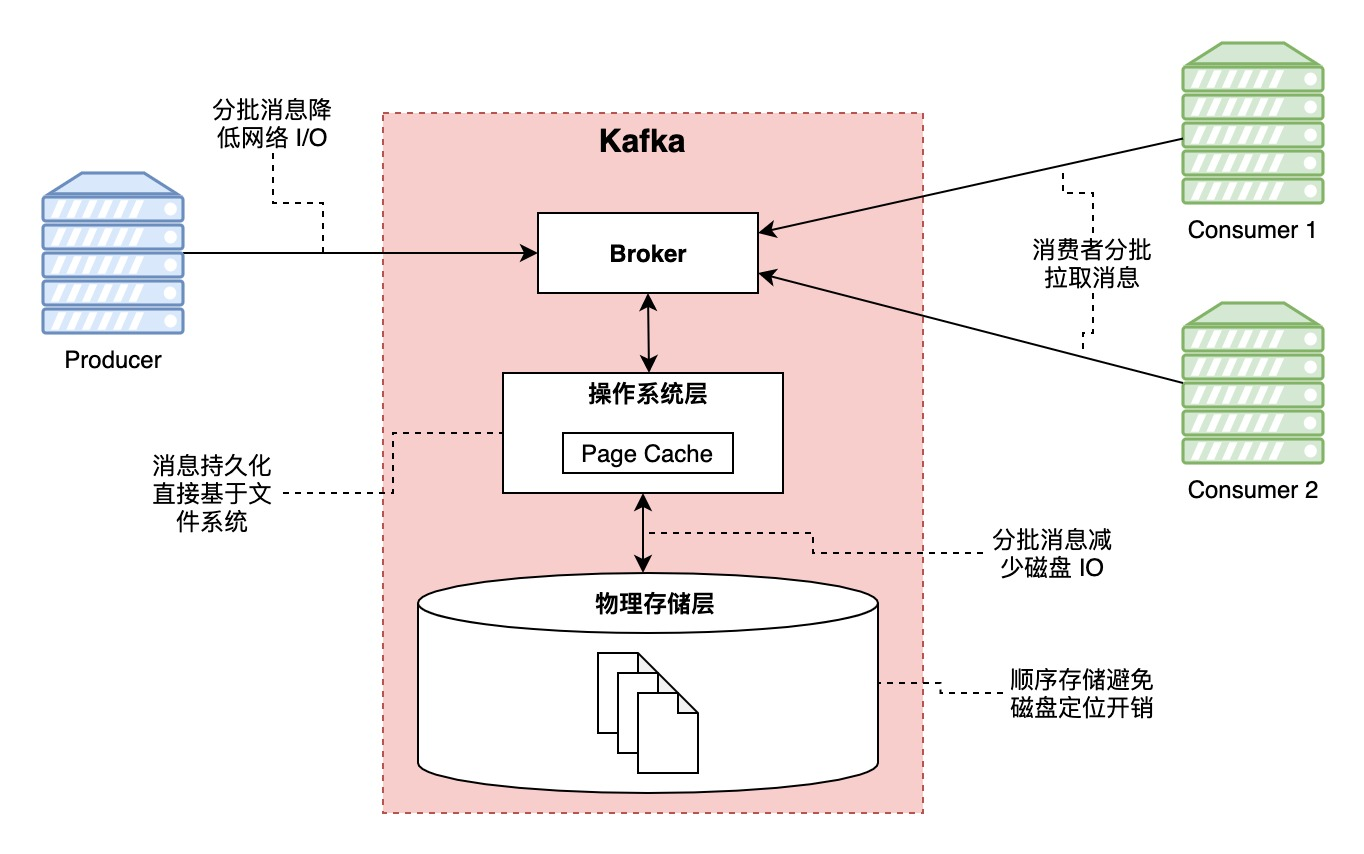
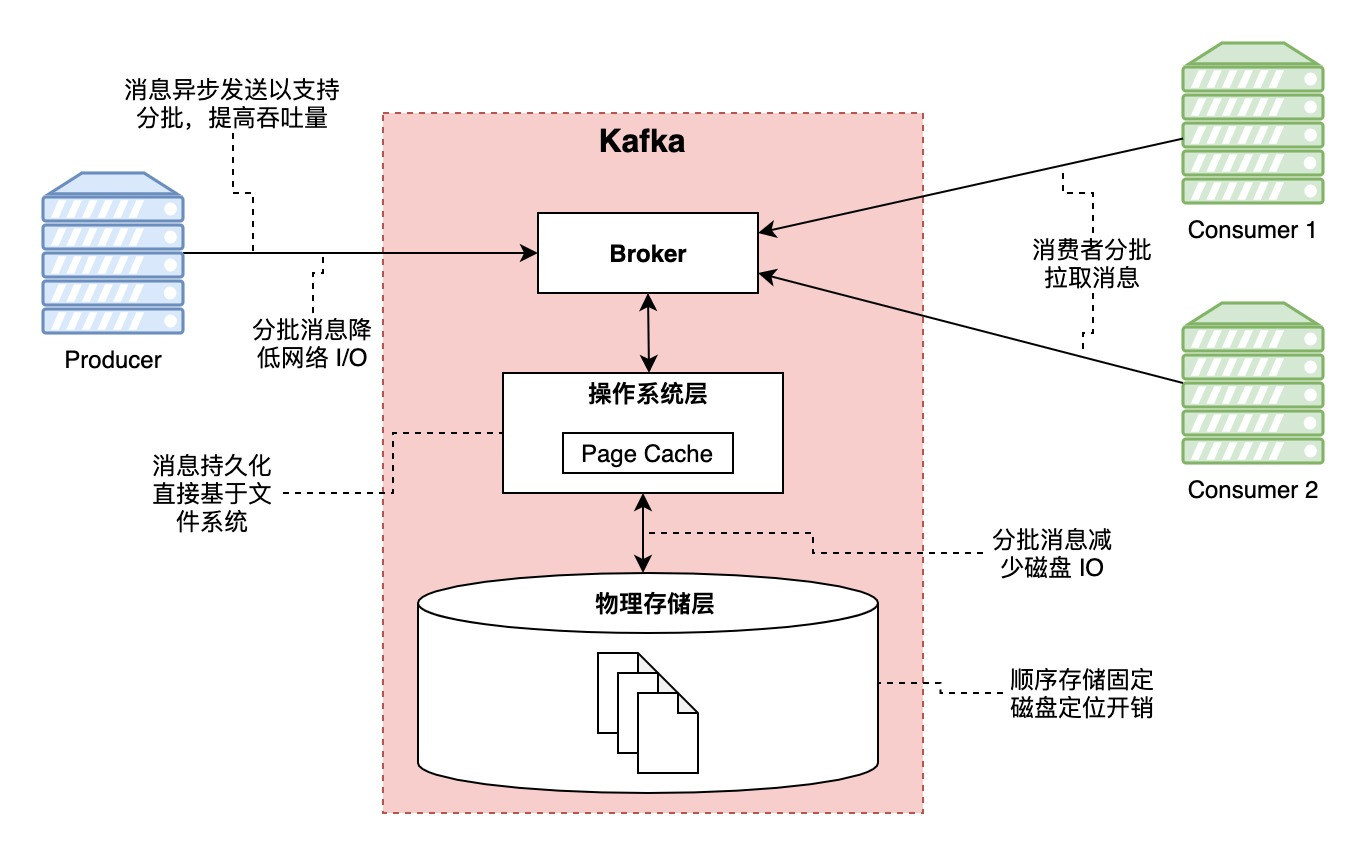
deploy: Martin91/hackerpie@9fc79688865ab356a506e48134d1f1ceb2884061

Changed region(s): [[0.0924, 0.0913, 0.2463, 0.1827], [0.1848, 0.3653, 0.2771, 0.4262], [0.8006, 0.7611, 0.8622, 0.822]]

diff --git a/posts/kafka/kakfa-main-design/index.html b/posts/kafka/kakfa-main-design/index.html
@@ -29,17 +29,17 @@ Kafka 核心设计思考——来自官方文档的总结
 </div>
 <div class=entry-content>
 <h2 id=前言>前言</h2>
-<p>最近在学习 Kafka 的一些相关设计，偶然间发现 Kafka 官方文档中独列了 <a href=https://kafka.apache.org/documentation/#design>Design</a> 一章。两天看完后觉得很兴奋，因为文档中很详细地从各方面阐述了 Kafka 官方对于 Kafka 设计的目标以及设计权衡等，并且是从官方设计的角度去讲解，所以会让我恍然大悟 Kafka 的独特之处与设计之美。这种快乐是阅读网上各种零散的博客文章无法比拟的，而我此处总结更多是为了提升自己的领悟和理解程度，自然行文之中会夹杂个人主观理解，我建议大家抽出时间阅读原汁原味的<a href=https://kafka.apache.org/documentation/#design>官方文档</a>。</p>
+<p>最近在学习 Kafka 的一些设计原理，偶然间发现 Kafka 官方文档中独列了 <a href=https://kafka.apache.org/documentation/#design>Design</a> 一章。两天看完后觉得很兴奋，因为文档中很详细地从各方面阐述了 Kafka 官方对于 Kafka 设计的目标以及设计权衡等，让我恍然大悟 Kafka 的独特与简洁。这种快乐是阅读网上各种零散的博客文章无法比拟的。我此处总结更多是为了提升自己的领悟和理解程度，行文之中会夹杂个人主观理解，我建议大家抽出时间阅读原汁原味的<a href=https://kafka.apache.org/documentation/#design>官方文档</a>。</p>
 <h2 id=kafka-设计目标与设计概述>Kafka 设计目标与设计概述</h2>
-<p>设计一个系统，清晰明确的目标与理想的蓝图是第一步。Kafka 官方在最开始的时候，对 Kafka 的设计理想是将其做成一个可以帮助大型公司应对各种可能的实时数据流处理的通用平台。这句话里边有几个重点：“大型公司”、“实时”、“通用”，对应到系统设计上，就是需要支持大量数据的低延迟处理，并且需要考虑各种不同的数据处理场景。在官方阐述中，Kafka 着眼于以下几个核心指标：</p>
+<p>设计一个系统，精准的目标是第一步。Kafka 官方在最开始的时候，对 Kafka 的设计理想是将其做成一个可以帮助大型公司应对各种可能的实时数据流处理的通用平台。这句话里边有几个重点：“大型公司”、“实时”、“通用”，对应到系统设计上，就是需要支持大量数据的低延迟处理，并且需要考虑各种不同的数据处理场景。在官方阐述中，Kafka 着眼于以下几个核心指标：</p>
 <ul>
 <li><strong>高吞吐量</strong>：因为 Kafka 需要处理大量的消息；</li>
-<li><strong>低延迟</strong>：这是消息系统的关键设计指标；</li>
-<li><strong>支持加载离线数据</strong>：这是 Kafka 考虑的所谓“各种可能的”数据处理场景，从数据源上看，支持从离线系统中加载数据，或者将数据加载到离线系统中，显然也是需要支持的；</li>
+<li><strong>低延迟</strong>：消息系统的关键设计指标；</li>
+<li><strong>支持加载离线数据</strong>：这是 Kafka 考虑的所谓“各种可能的”数据处理场景，支持从离线系统中加载数据，或者将数据加载到离线系统中，都是无法逃避的；</li>
 <li><strong>支持分区的、分布式的、实时的数据流处理以产生新的、派生的数据流</strong>：这个指导了 Kafka 里 topic 分区模型以及消费者模型的设计；</li>
-<li><strong>容错与可靠性</strong>：Kafka 作为消息中间件，核心场景之一就是作为系统间的连接器，可靠的消息投递机制以及应对节点故障的高可用设计等，必不可少。</li>
+<li><strong>容错与可靠性</strong>：Kafka 作为消息中间件，核心场景之一就是作为系统间的连接器，需要保证整体业务的正常运作，可靠的消息投递机制以及应对节点故障的高可用设计等，必不可少。</li>
 </ul>
-<p>理解了 Kafka 的设计目标以及核心指标，后续对 Kafka 的整体架构设计就会有一个方向了，因为 Kafka 的整体设计细节还算比较多，但是归根结底都是围绕这几个核心指标去做的设计，我尝试分门别类先汇总一下，可能不是很准确，希望大家看的时候顺便赐教：</p>
+<p>理解了 Kafka 的设计目标以及核心指标，后续对 Kafka 的整体架构设计就会有一个方向了，因为 Kafka 的整体设计细节还算比较多，但是归根结底都是围绕这几个核心指标去做的设计，我尝试分门别类先汇总一下，可能不是很准确，希望请大家看的时候顺便赐教：</p>
 <table>
 <thead>
 <tr>
@@ -70,6 +70,11 @@ Kafka 核心设计思考——来自官方文档的总结
 <td>由消费者批量拉取</td>
 </tr>
 <tr>
+<td>高吞吐量</td>
+<td>支持分批消息</td>
+<td>支持异步发送消息</td>
+</tr>
+<tr>
 <td>低延迟</td>
 <td>避免昂贵的字节拷贝</td>
 <td>统一的消息格式，零拷贝技术</td>
@@ -90,11 +95,6 @@ Kafka 核心设计思考——来自官方文档的总结
 <td>producer 直连 broker</td>
 </tr>
 <tr>
-<td>低延迟</td>
-<td>提高消息发布速率</td>
-<td>支持异步发布消息</td>
-</tr>
-<tr>
 <td>离线数据加载</td>
 <td>支持周期性大量数据加载</td>
 <td>依赖存储层顺序读写的常量时间复杂度的访问优势以及低廉的磁盘成本要求</td>
@@ -112,7 +112,7 @@ Kafka 核心设计思考——来自官方文档的总结
 <tr>
 <td>可靠性</td>
 <td>容错处理与高可用</td>
-<td>ISR 机制与分散 Leader 设计</td>
+<td>ISR 机制与 Leader 均匀分布设计</td>
 </tr>
 </tbody>
 </table>
@@ -122,19 +122,19 @@ Kafka 核心设计思考——来自官方文档的总结
 <li>日志压缩（Log Compaction）的设计</li>
 <li>其他……</li>
 </ul>
-<p>以上的总体设计，让 Kafka 看起来也更像是一个日志系统，而不是一个传统意义上的消息队列系统。</p>
+<p>以上的总体设计，让 Kafka 看起来也更像是一个日志型系统，而不仅仅是传统意义上的消息队列。</p>
 <h2 id=高吞吐量的设计思考>高吞吐量的设计思考</h2>
 <h3 id=读写缓存的利用>读写缓存的利用</h3>
 <p>Kafka 的设计中，存储层直接基于文件系统实现，而不是额外实现复杂的存储层抽象，比如引入缓存和缓冲等。</p>
-<p>一般提到文件系统或者磁盘存储系统，大家第一反应就是“这东西不就是很慢吗”？是的，一般来说，磁盘的读写速度是很慢，但也限于随机访问的前提下，而事实上，特定条件下，磁盘的顺序读写性能堪比内存的随机访问性能！</p>
-<p>除了硬件层面的冷知识，现代操作系统内部都已经实现对底层文件系统的统一抽象，特别是对读写性能的优化，大家可能了解的是预读（Read-Ahead）和后写（Write-Behind）。结合顺序读写的特性，这种操作系统的优化能够被发挥到极致。</p>
-<p>对比应用层的缓存设计方案，并且考虑到 Kafka 运行于 JVM 之上，JVM 中对象的封装表示都会有额外的内存开销，这种开销与对象本身数据的大小相当。所以，如果是在应用层自行实现缓存层，则意味着会有额外的大致两倍于消息体积的内存开销。这个成本对于大数据处理场景来说，可不是闹着玩的。开销也不仅限于内存开销，Java 本身的 GC 算法会随着应用堆内存的增加而愈加频繁且迟钝。</p>
+<p>一般提到文件系统或者磁盘存储，大家第一反应就是“这东西不是很慢吗”？是的，一般来说，磁盘的读写速度是很慢，但也限于随机访问的前提下，而事实上，特定条件下，磁盘的顺序读写性能堪比内存的随机访问性能！是不是很出乎意料？</p>
+<p>另外，现代操作系统内部都已经实现对底层文件系统的统一抽象，特别是对读写性能的优化，大家可能了解的是预读（Read-Ahead）和后写（Write-Behind）。结合顺序读写的特性，这种操作系统的优化能够被发挥到极致。</p>
+<p>如果考虑应用层的缓存设计方案，就会考虑到 Kafka 运行于 JVM 之上，JVM 中对象的封装表示都会有额外的内存开销，这种额外开销与对象本身数据的大小相当。所以，如果是在应用层自行实现缓存层，则意味着会有额外的大致两倍于消息体积的内存开销。这个成本对于大数据处理场景来说，可不是闹着玩的。开销也不仅限于内存开销，Java 本身的 GC 算法会随着应用堆内存的增加而愈加频繁且迟钝。</p>
 <p>最后，缓存的设计还绕不开缓存预热的思考，由于操作系统本身对于读写性能优化的设计，可以认为预读和后写等特性已经帮助应用透明地实现了缓存的预热和落盘。而如果是在应用层面，则不得不重复造轮子，且需要考虑的细节很多。</p>
-<p>综上，Kafka 官方认为直接基于文件系统实现存储，是一个收益很多的决定。</p>
+<p>综上，Kafka 官方认为直接基于文件系统实现存储，是一个非常明智的决定。</p>
 <h3 id=顺序数据结构的妙处>顺序数据结构的妙处</h3>
 <p>众所周知，Kafka 采用了追加写也就是顺序写的方式来完成数据持久化，消息投递过程中也是按照顺序读的方式实现。在 Kafka 看来，顺序读写带来了诸多好处。</p>
-<p>在 B 树等数据结构上操作的时间复杂度是 log(n)，一种一般看来近似于常量时间复杂度的算法。但是实际上，考虑到磁盘的特殊结构以及额外的磁盘定位（事实上，定位不是一步到位的，分为寻道和旋转两个阶段，感兴趣的可以阅读《<a href=https://tech.meituan.com/2017/05/19/about-desk-io.html>磁盘I/O那些事</a>》）等，这种数据结构的操作性能的下降速度，其实是高于数据本身体积的增长的，也就是随着数据越来越大，这种数据结构的性能会越来越低。</p>
-<p>而采用顺序读写，由于只需要一次磁盘定位，可以认为其操作时间复杂度为O(1)。因为一般而言，一次 I/O 操作的总体延迟，主要是磁盘定位的延迟，而数据传输的延迟与之相比不值一提。所以这种常量时间复杂度的访问操作，天然的好处是我们可以不用担心访问数据的大小。因此，这种数据结构在面对大量数据的读写时，会有更加稳定的性能表现。在 Kafka 团队看来，采用 Kafka 的应用可以放心地以更低成本实现存储，特别是可以以磁盘转速换取空间，这也是 Kafka 可以放心地保留历史消息而不做即刻清除的原因。</p>
+<p>在 B 树等数据结构上操作的时间复杂度是 log(n)，一种一般看来近似于常量时间复杂度的算法。但是实际上，考虑到磁盘的特殊结构以及额外的磁盘定位（事实上，定位不是一步到位的，分为寻道和旋转两个阶段，感兴趣的可以阅读《<a href=https://tech.meituan.com/2017/05/19/about-desk-io.html>磁盘I/O那些事</a>》）等，这种数据结构的操作性能的下降速度，其实是高于数据本身体积的增长的，也就是随着数据越来越大，这种数据结构的性能下降越来越快。</p>
+<p>而采用顺序读写，由于只需要一次磁盘定位，可以认为其操作时间复杂度为O(1)。因为一般而言，一次 I/O 操作的总体延迟，主要是磁盘定位的延迟，而数据传输的延迟与之相比不值一提。所以这种常量时间复杂度的访问操作，天然的好处是我们可以不用担心访问数据的大小。因此，这种数据结构在面对大量数据的读写时，会有更加稳定的性能表现。在 Kafka 团队看来，Kafka 可以放心地以更低成本实现存储，特别是可以以磁盘转速换取空间，这也是 Kafka 可以放心地保留历史消息而不做即刻清除的原因。</p>
 <p>这里补充一点来自《<a href=https://tech.meituan.com/2017/05/19/about-desk-io.html>磁盘I/O那些事</a>》）的参考信息：</p>
 <blockquote>
 <p>目前磁盘的平均寻道时间一般在3-15ms<br>
@@ -151,45 +151,44 @@ Kafka 核心设计思考——来自官方文档的总结
 <li>毗邻的内存空间等</li>
 </ul>
 <p>这里消息原样存储和投递还有一些零拷贝以及消息压缩方面的考虑，稍后也会聊到。</p>
+<p>这里刚好由消息分批就想到了发布者的异步消息发送，这是由客户端 SDK 完成的功能，其可以配置在超过指定时间或者超出指定消息量的情况下触发消息投递到 broker，虽然会牺牲一些投递时机的延迟，但是赢取了分批投递所带来的吞吐量的提升。</p>
 <p>目前为止，关于提高吞吐量的设计，画了个图，以助加深印象：</p>
 <p><img src=https://blog.hackerpie.com/images/posts/kafka-how-to-improve-thoughput.jpg alt="kafka 如何提高吞吐量架构"></p>
 <h2 id=低延迟的设计思考>低延迟的设计思考</h2>
 <h3 id=避免昂贵的字节拷贝等操作>避免昂贵的字节拷贝等操作</h3>
-<p>为了降低延迟，broker 最好是越少干预消息约好。为此，Kafka 设计了统一的二进制消息格式，而且在消息投递的全过程中，都需要修改消息内容，带来的好处是二进制消息无需经过 broker 的任何转化处理，原样落盘。更重要的是，由于消息原样投递给消费者，可以方便结合零拷贝技术实现消息在网络的快速传输。特别是对于多消费者组的场景，消息的投递直接从 Page Cache 读取，然后通过网络传输，理论上消息投递的速率可以逼近网络连接传输速率的上限。</p>
+<p>为了降低延迟，broker 最好是越少干预消息约好。为此，Kafka 设计了统一的二进制消息格式，而且在消息投递的全过程中，都需要修改消息内容，带来的好处是二进制消息无需经过 broker 的任何转化处理，原样落盘。更重要的是，由于消息原样投递给消费者，可以方便结合零拷贝技术实现消息在网络的快速传输。特别是对于多消费者组的场景，消息的投递直接从 Page Cache 读取，不用担心广播带来线性的访问开销。最后通过网络传输，理论上消息投递的速率可以逼近网络连接传输速率的上限。</p>
 <h3 id=端到端消息压缩>端到端消息压缩</h3>
-<p>如果说零拷贝是为了避免无谓的开销，那将消息体进行压缩，则是为了降低数据传输的体积。Kafka 使用了端到端的分批消息压缩协议，至于为什么是分批呢？因为一般来说，在同个 topic 里，我们倾向于传输同类或者相似的消息类型，这些类型的消息会有大量重复的字段名，如果按批压缩，能够获得远比单条消息大的压缩率。由于是端到端压缩解压，Kafka broker 也就无需考虑消息本身实际使用的压缩格式，这也符合上面说的二进制消息格式中，broker 不参与消息转换等设计。目前，Kafka 支持的压缩协议有 GZIP、Snappy、LZ4 以及 ZStandard。</p>
+<p>如果说零拷贝是为了避免无谓的开销，那将消息体进行压缩，则是为了降低数据传输的体积。Kafka 使用了端到端的分批消息压缩协议，至于为什么是分批呢？因为一般来说，在同个 topic 里，我们倾向于传输同类或者相似的消息类型，这些类型的消息会有大量重复的字段名，如果按批压缩，能够获得远比单条消息大的压缩率。由于是端到端压缩解压，Kafka broker 也就无需考虑消息本身实际使用的压缩格式，这也符合上面说的二进制消息格式中，broker 不参与消息转换的设计思想。目前，Kafka 支持的压缩协议有 GZIP、Snappy、LZ4 以及 ZStandard。</p>
 <h3 id=发布者的低延迟设计>发布者的低延迟设计</h3>
-<p>发布者的低延迟设计包含两方面：降低负载均衡的延迟，避免消息发送的阻塞。</p>
-<p>先看负载均衡，Kafka 采用了 producer 直连 broker 的设计，而不依赖其他任何中间的路由层，好处是直接高效，减少了一层就是去除了一个环节的回路，同时降低了系统的复杂度，无需额外考虑路由层的高可用问题。但是就要求所有 broker 节点都能够获知集群的节点分布以及每个分区的 leader 所在节点等信息，这些信息由 ZooKeeper 管理。</p>
+<p>发布者的低延迟设计主要是降低负载均衡的延迟。Kafka 采用了 producer 直连 broker 的设计，而不依赖其他任何中间的路由层，好处是直接高效，减少了一层就是去除了一个环节的回路，同时降低了系统的复杂度，无需额外考虑路由层的高可用问题。但是就要求所有 broker 节点都能够获知集群的节点分布以及每个分区的 leader 所在节点等信息，这些信息由 ZooKeeper 管理。</p>
 <p>另外，消息投递分区由客户端也就是 producer 决定，既支持随机或者轮询等简单的均衡算法，也支持按 Key 哈希的分区算法等，这些在 producer 上完成。</p>
-<p>然后也看异步消息发送，前面反复提到消息分批发送，这是由客户端 SDK 完成的功能，其可以配置在超过指定时间或者超出指定消息量的情况下触发消息投递到 broker，虽然会牺牲一些投递时机的延迟，但是分批消息投递能够获得整体更大的优化。</p>
 <h3 id=消费者的低延迟设计>消费者的低延迟设计</h3>
 <p>消费者的低延迟，一方面是依赖前面讲的零拷贝技术的应用，另一方面是结合批量拉取消息，由于前面都有介绍，这里只是带过。</p>
 <h2 id=可靠性的设计思考>可靠性的设计思考</h2>
 <h3 id=实现有且仅有一次的消息投递语义>实现“有且仅有一次”的消息投递语义</h3>
 <p>想要实现刚好一次的消息投递，需要分开从发布端和消费端来看。</p>
 <p>在发布端，每个发布者都会获得 broker 授予的一个唯一的 ID，结合消息本身隐含的顺序的序号，可以方便 broker 识别重复投递的消息。其次，考虑到在一次事务型操作中可能会有多个消息同时发布到多个分区的需求，Kafka 也提供了类似事务的语义，具体大家可以搜索了解一下。</p>
-<p>来到消费端，实现刚好一次的消息投递也会相对简单。由于消息拉取点由消费者控制，所以只需要解决消费者如何避免重复拉取就好了。在官方文档中，建议的方式时消费者将已消费的消息偏移量一同记录到消费过程中的输出中，这样可以保证消费者（可能是原来的消费者重启了，也可能是消费者挂了后有其他消费者分担了此消费者原来的分区）在开始拉取之前检查最新消费进度。</p>
+<p>来到消费端，实现刚好一次的消息投递也相对简单。由于消息拉取起点由消费者控制，所以只需要思考消费者如何避免重复拉取就好了。在官方文档中，建议的方式是消费者将已消费的消息偏移量一同记录到消费消费处理结果的输出中，这样可以保证消费者（可能是原来的消费者重启了，也可能是消费者挂了后有其他消费者分担了此消费者原来的分区）在开始拉取之前确认最后消费进度。</p>
 <h3 id=高可用的设计思考>高可用的设计思考</h3>
 <p>高可用的设计主要涉及两个内容：复制和容灾选主。</p>
 <p>复制上，Kafka 的每个分区都可以配置 0 个或多个副本数量，也就是每个分区对应 1 个或多个 broker 节点。follower 使用和消费者一致的批量拉取机制来同步 leader 节点的日志。</p>
-<p>在节点活性方面，Kafka 认为如果一个节点满足以下两点，即可认为是 <code>In-Sync</code> 节点：</p>
+<p>在节点活性方面，Kafka 认为如果一个节点满足以下两点，即可称为 <code>In-Sync</code> 节点：</p>
 <ul>
 <li>节点保持了到 ZooKeeper 的心跳</li>
 <li>节点紧跟 Leader 的日志复制，没有 “明显落后” Leader 节点的日志</li>
 </ul>
-<p>在考虑 Leader 故障的容灾上，Kafka 放弃了大多数选举的分布式一致性方案，而是采用名为 ISR （In-Sync Replica）的方案。因为传统的大多数选举，为了容忍 <code>n</code> 次 leader 故障，必须部署 <code>2n+1</code> 个节点，对于需要存储大量数据的 Kafka 来说，这个成本显然过大。而采用 ISR 的方案，只需要 <code>n+1</code> 个节点，就可以做到容忍 <code>n</code> 次故障的情况，成本相比而言降低了接近一半。</p>
+<p>在考虑 Leader 故障上，Kafka 放弃了大多数选举的分布式一致性方案，而是采用名为 ISR （In-Sync Replica）的方案。因为传统的大多数选举，为了容忍 <code>n</code> 次 leader 故障，必须部署 <code>2n+1</code> 个节点，对于需要存储大量数据的 Kafka 来说，这个成本显然过大。而采用 ISR 的方案，只需要 <code>n+1</code> 个节点，就可以做到容忍 <code>n</code> 次故障的情况，成本相比而言降低了接近一半。</p>
 <p>在 ISR 的方案下，消息被成功提交的判断就是 In-Sync 集合中的所有节点返回确认成功。一个成功提交的消息可以保证不会丢失。</p>
-<p>但是 ISR 的方案还需要考虑一种极端场景：如果所有 In-Sync 节点都故障了，怎样等待新的 Leader 出现？有两种不同的取舍：</p>
+<p>但是 ISR 的方案还需要考虑一种极端场景：如果所有 In-Sync 节点都故障了，怎样选取新的 Leader？有两种不同的取舍：</p>
 <ul>
 <li>牺牲可用性：坚决等待 In-Sync 机器恢复，不可用的时间可能更长</li>
 <li>牺牲一致性：选取任意一台可用的机器作为 Leader，这个机器可能是 In-Sync，也可能不是</li>
 </ul>
-<p>在 Kafka 默认选项中，使用了前面的方案，就是 Kafka 认为一致性更重要。</p>
+<p>在 Kafka 默认选项中，使用了前面的方案，就是 Kafka 认为一般来说一致性更重要。</p>
 <p>另外，Kafka 还会尽可能将所有分区的 Leader 均匀分散到不同的 broker 上。</p>
 <h2 id=其他设计思考>其他设计思考</h2>
 <h3 id=分段存储提升查找效率>分段存储提升查找效率</h3>
-<p>熟悉 Kafka 的同学也都知道，尽管 Kafka 的 topic 会进一步分为多个分区（partition），分区也是节点复制的最小单元，但是单个分区的日志在磁盘上还会进一步分解为多个段，也就是多个独立的文件，逻辑上可以见下面这个官方文档的图：</p>
+<p>熟悉 Kafka 的同学也都知道，尽管 Kafka 的 topic 会进一步分为多个分区（partition），分区也是备份的最小单元，但是单个分区的日志在磁盘上还会进一步分解为多个段，也就是多个独立的文件，逻辑上可以见下面这个官方文档的图：</p>
 <p><img src=https://blog.hackerpie.com/images/posts/kafka_log.png alt></p>
 <p>好处是什么呢？当然是方便查找了，你想想，既然消息的日志是顺序存储的，那我结合二分查找算法，不就可以支持快速定位到指定的消息了吗？</p>
 <h3 id=消息消费进度标记consumer-offset>消息消费进度标记——consumer offset</h3>
